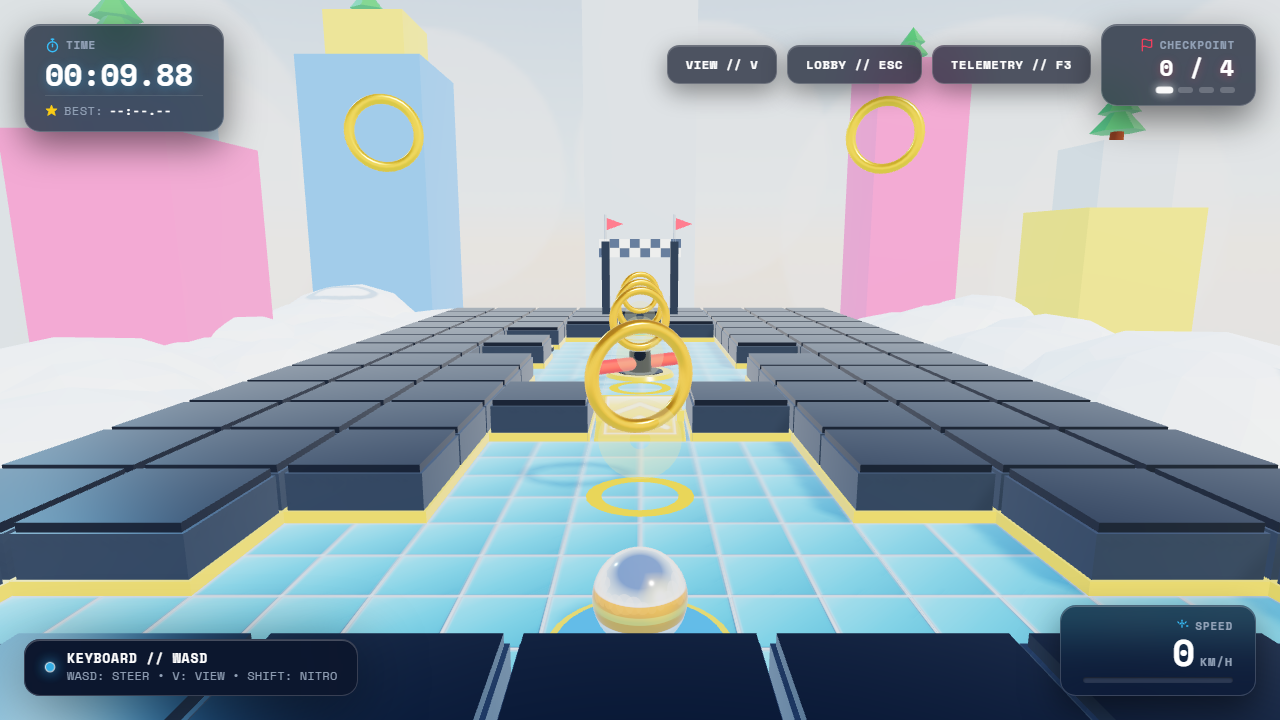
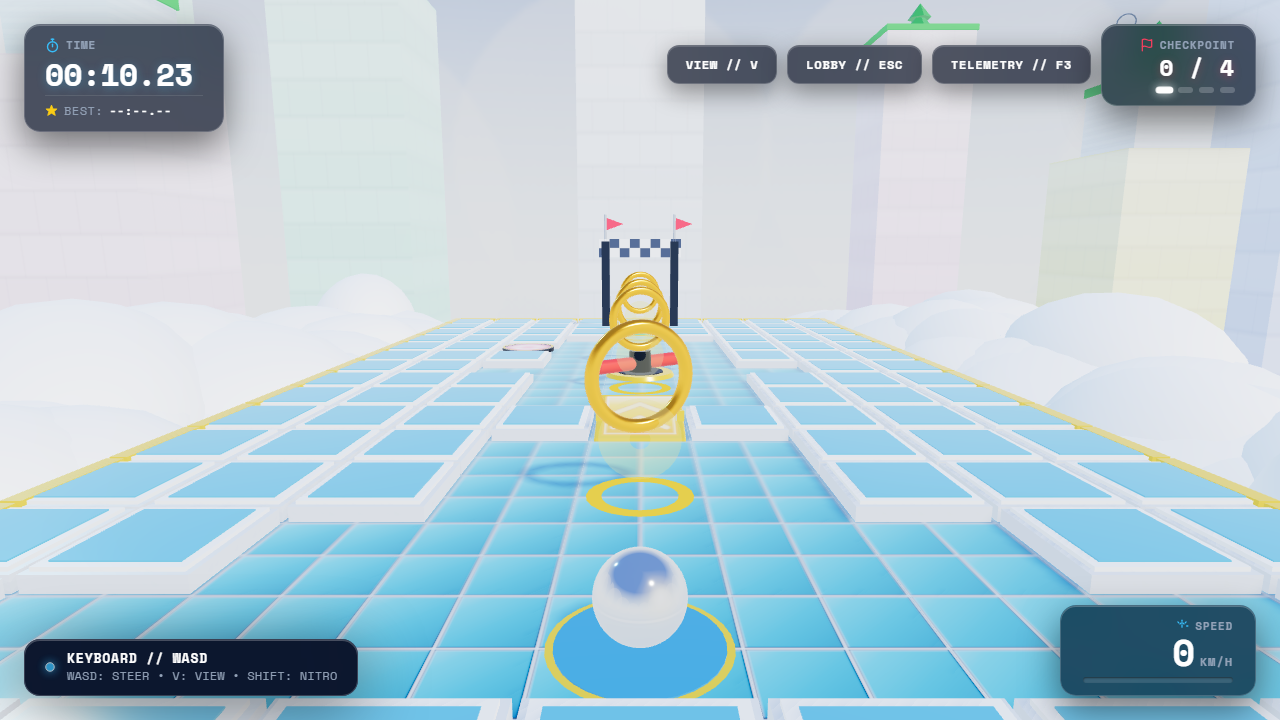
feat(docs): regenerate dual-view screenshots and update README gallery

diff --git a/README.md b/README.md
@@ -47,20 +47,35 @@ flowchart LR
 
 ## 📸 In-Game Screenshots & Dynamic Skyway Environments
 
-| **Lobby & Motion Controller Pairing** | **Level 1: Sunny Blue Skyway** |
-|:---:|:---:|
-| ![Lobby Screen](docs/media/lobby.png) | ![Level 1: Skyway Runway](docs/media/level-1.png) |
-| *Nothing-inspired liquid mercury UI & live tilt indicator* | *Guided flight course, golden rings, and finish arch* |
+### Lobby & Motion Controller Pairing
+<p align="center">
+  <img src="docs/media/lobby.png" alt="Lobby Screen" width="800" />
+  <br><em>Nothing-inspired liquid mercury UI & live tilt indicator</em>
+</p>
 
-| **Level 2: Sunset Overpass** | **Level 3: Dusk S-Curves** |
+### Level 1: Skyway Runway (Sunny Blue Skyway)
+| **Start View** | **Mid-Course Action (Boost Ramp & Spinners)** |
 |:---:|:---:|
-| ![Level 2: Sunset Overpass](docs/media/level-2.png) | ![Level 3: Dusk S-Curves](docs/media/level-3.png) |
-| *Warm peach/amber horizon and spinning hazard rotors* | *Purple dusk atmosphere with jump ramps & bouncers* |
+| ![Level 1 Start](docs/media/level-1-start.png) | ![Level 1 Action](docs/media/level-1-action.png) |
+| *Low cream-stone curbs, cobalt sky, and distant monoliths* | *Liquid-mirror chrome marble at nitro speed launching over ramp* |
 
-| **Level 4: Midnight Labyrinth** |
-|:---:|
-| ![Level 4: Midnight Labyrinth](docs/media/level-4.png) |
-| *Moon corona, starfield, and glowing emissive curbs & tiles* |
+### Level 2: Serpent's Ridge (Sunset Overpass)
+| **Start View** | **Mid-Course Action (Winding Chicanes)** |
+|:---:|:---:|
+| ![Level 2 Start](docs/media/level-2-start.png) | ![Level 2 Action](docs/media/level-2-action.png) |
+| *Warm sandstone curbs, pink-peach clouds & terracotta monoliths* | *High-velocity drift around winding corners and rotor gauntlet* |
+
+### Level 3: Twin Paths & Boosts (Dusk S-Curves)
+| **Start View** | **Mid-Course Action (Nitro Ramps & Bouncers)** |
+|:---:|:---:|
+| ![Level 3 Start](docs/media/level-3-start.png) | ![Level 3 Action](docs/media/level-3-action.png) |
+| *Light lavender curbs, rose horizon & tiered monoliths* | *Spring shortcuts, dual boost ramps, and golden checkpoint rings* |
+
+### Level 4: Master's Labyrinth (Midnight Skyway)
+| **Start View** | **Mid-Course Action (Cyber Gauntlet)** |
+|:---:|:---:|
+| ![Level 4 Start](docs/media/level-4-start.png) | ![Level 4 Action](docs/media/level-4-action.png) |
+| *Navy-slate curbs with glowing cyan neon top edges & soft clouds* | *High-speed navigation through dark chicanes & glowing skyscraper towers* |
 
 ---
 
